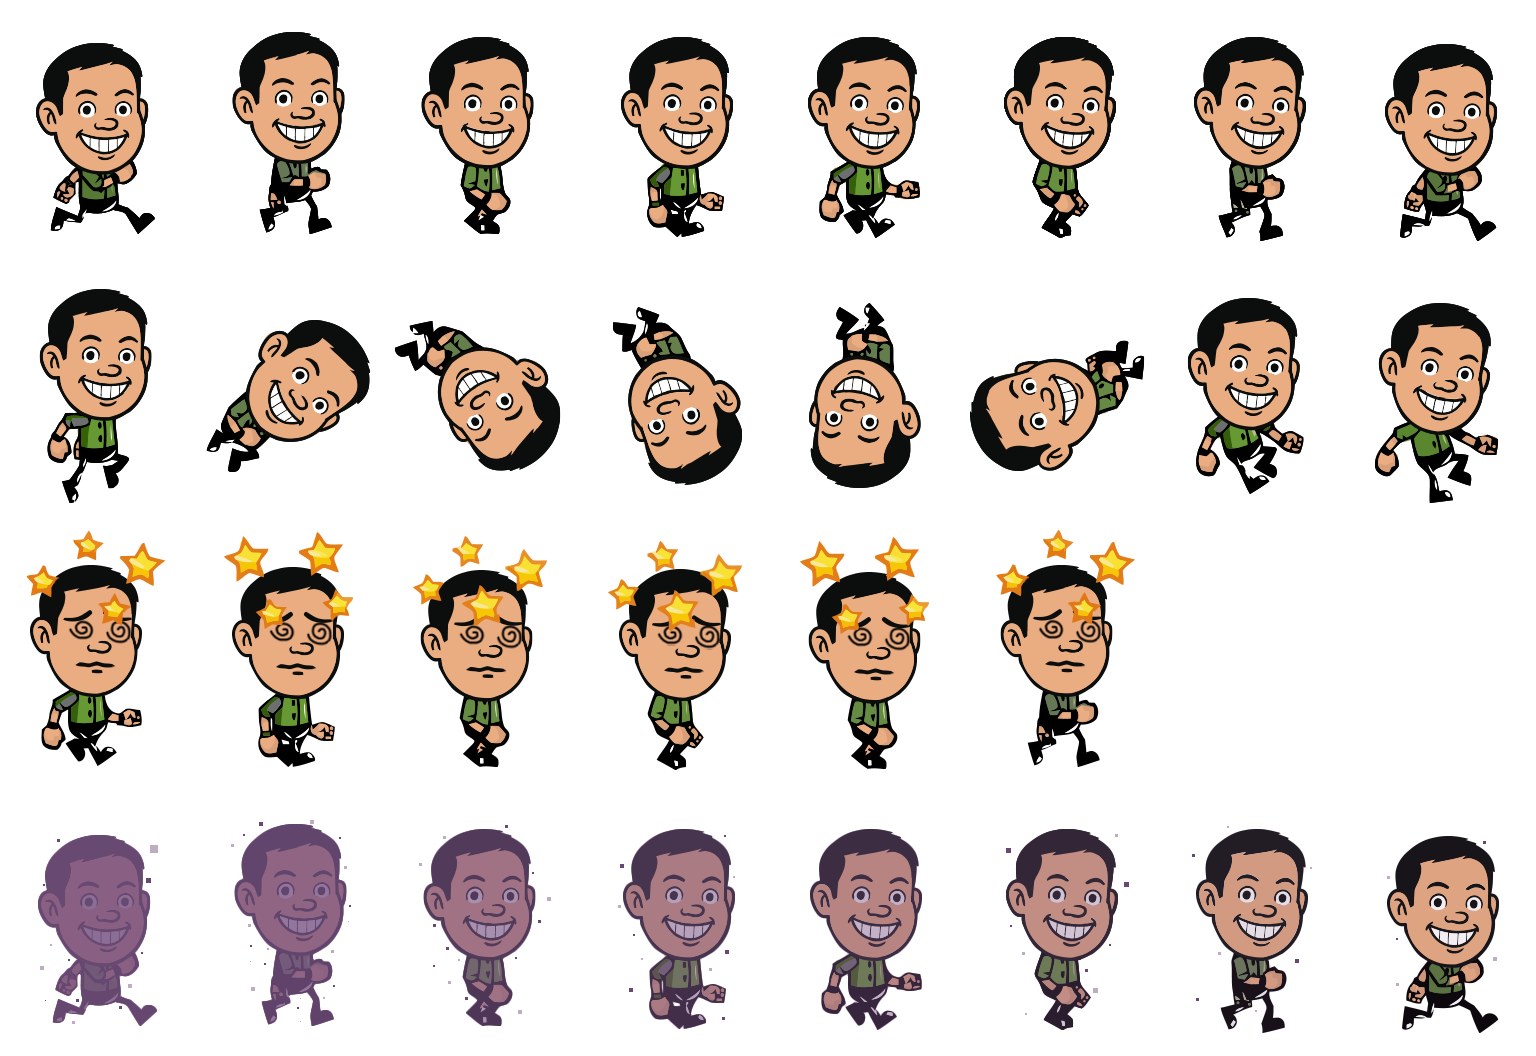
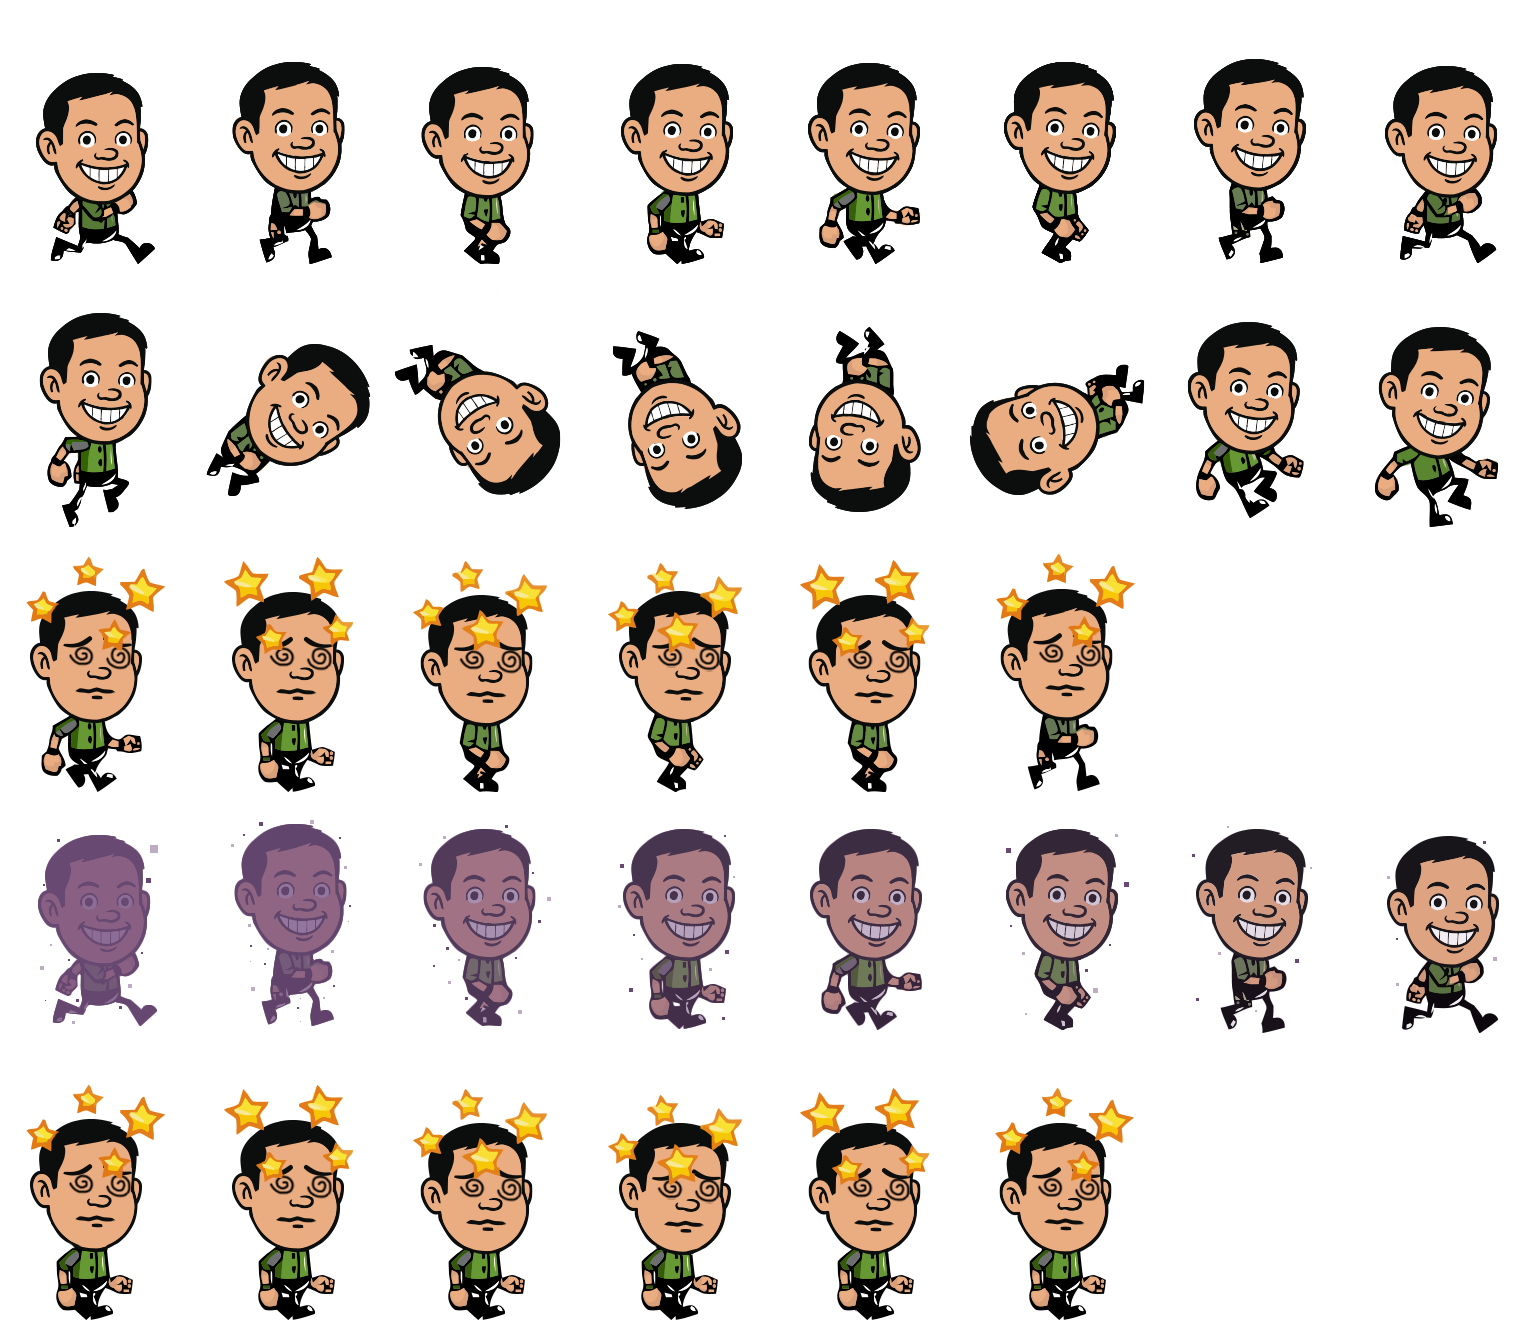
working halt when hitting obstacle

diff --git a/src/scenes/game.js b/src/scenes/game.js
@@ -45,8 +45,8 @@ export default function game() {
 
   // Platforms
   const platforms = [
-    k.add([k.sprite("platforms"), k.pos(0, 450), k.scale(4)]),
-    k.add([k.sprite("platforms"), k.pos(384, 450), k.scale(4)]),
+    k.add([k.sprite("platforms"), k.pos(0, 820), k.scale(3)]),
+    k.add([k.sprite("platforms"), k.pos(380, 820), k.scale(3)]),
   ];
 
   // Player
@@ -59,33 +59,41 @@ export default function game() {
   let healthBar = k.add([
     k.sprite("lives"),
     k.anchor("center"),
-    k.pos(130, 120),
-    k.scale(4)
+    k.pos(200, 60),
+    k.scale(6)
   ]);
 
 
-  // UI
-  const controlsText = k.add([
-    k.text("Press Space/Click/Touch to Jump!", { font: "mania", size: 64 }),
+    let box = k.add([
+    k.sprite("box"),
     k.anchor("center"),
-    k.pos(k.center()),
+    k.pos(1720, 165),
+    k.scale(2.5)
   ]);
+  
 
   const dismissControlsAction = k.onButtonPress("jump", () => {
     gamePaused.set(false);
-    k.destroy(controlsText);
     dismissControlsAction.cancel();
   });
 
+
   const scoreText = k.add([
-    k.text("KM : 0", { font: "mania", size: 72 }),
-    k.pos(20, 20),
+    k.text("00", { font: "mania", size: 90 }),
+    k.pos(1680, 85),
   ]);
 
-  const levelText = k.add([
-    k.text("LEVEL: 1", { font: "mania", size: 72 }),
-    k.pos(1650, 20),
-  ]);
+
+const levelText = k.add([
+  k.text("LEVEL 1", {
+    size: 39,
+    font: "mania", // Custom font
+  }),
+  k.color(k.rgb(139, 171, 191)), // Maroon color for the text
+  k.outline(5, k.rgb(0, 0, 0)), // 4px outline in gold color
+  k.pos(1660, 256),
+]);
+
 
   // Game variables
   let gameSpeed = 500;
@@ -110,14 +118,14 @@ export default function game() {
       score += inc;
     }
     
-    scoreText.text = `KM : ${score}`;
+    scoreText.text = `${score}`;
     sonic.ringCollectUI.text = `+${inc}`;
     k.wait(1, () => (sonic.ringCollectUI.text = ""));
 
     if (checkScore(score, level)) {
       level++;
       showTrafficLight(level);
-      levelText.text = `LEVEL: ${level}`;
+      levelText.text = `LEVEL ${level}`;
       k.wait(2, () => {
         gameSpeed += 500;
         
@@ -129,7 +137,7 @@ export default function game() {
     if (level === 3 && score >= 141) {
       score = 141;
       k.setData("current-score", score);
-      k.go("gameover", citySfx); // move to ending
+      k.go("win", citySfx); // move to ending
     }
   });
 
@@ -137,10 +145,17 @@ export default function game() {
     let inc = 5;
     if (teleporting) return;
 
+
+    enemy.play("crash");
+    k.wait(0.6, () => {
+      if (enemy.exists()) k.destroy(enemy);
+    });
+
+    
     if (!sonic.isGrounded()) {
       k.play("destroy", { volume: 0.5 });
       k.play("hyper-ring", { volume: 0.5 });
-      k.destroy(enemy);
+
       sonic.play("jump");
       sonic.jump();
       if (level == 2) {
@@ -152,7 +167,7 @@ export default function game() {
       } else {
         score += inc;
       }
-      scoreText.text = `KM : ${score}`;
+      scoreText.text = `${score}`;
       sonic.ringCollectUI.text = `+${inc}`;
       k.wait(1, () => (sonic.ringCollectUI.text = ""));
 
@@ -171,7 +186,7 @@ export default function game() {
       if (level === 3 && score >= 141) {
         score = 141;
         k.setData("current-score", score);
-        k.go("gameover", citySfx); // move to ending
+        k.go("win", citySfx); // move to ending
       }
       return;
     }
@@ -188,18 +203,42 @@ export default function game() {
     
     if (frame < 3) frame = (frame + 1) % healthBar.numFrames();
     healthBar.frame = frame;
-    if (lives > 1) {
-      lives--;
-    } else {
-      gameSpeed = 0;
-      k.wait(3, () => {
-        k.setData("current-score", score);
-        k.go("gameover", citySfx);
-      });
-      
-      
-    }
-  });
+
+  // If on ground, pause and wait for input
+  k.play("hurt", { volume: 0.5 });
+  sonic.play("idle");
+
+  if (lives > 1) {
+    lives--;
+    if (frame < 3) frame = (frame + 1) % healthBar.numFrames();
+    healthBar.frame = frame;
+  } else {
+    gameSpeed = 0;
+    k.wait(3, () => {
+      k.setData("current-score", score);
+      k.go("lose", citySfx);
+    });
+    return;
+  }
+
+gamePaused.set(true);
+const message = k.add([
+  k.text("You got hit! Recovering...", {
+    size: 36,
+    font: "mania",
+  }),
+  k.anchor("center"),
+  k.pos(k.center()),
+  "resumePrompt"
+]);
+
+k.wait(1, () => {
+  gamePaused.set(false);
+  sonic.play("run");
+  message.destroy();
+});
+
+});
 
   sonic.onCollide("portal", () => {
     if (gamePaused.get()) return;
@@ -238,8 +277,8 @@ export default function game() {
           k.destroy(spawningPortal);
         })
         teleporting = false;
-        scoreText.text = `KM : ${score}`;
-        levelText.text = `LEVEL: ${level}`;
+        scoreText.text = `${score}`;
+        levelText.text = `LEVEL ${level}`;
       });
 
     });
@@ -251,7 +290,7 @@ export default function game() {
     if (!gamePaused.get()) {
       const motobug = makeMotobug(k.vec2(1950, 773));
       motobug.onUpdate(() => {
-        if (gameSpeed == 0) return;
+        if (gamePaused.get() || gameSpeed === 0) return;
         motobug.move(-(gameSpeed + (gameSpeed < 3000 ? 300 : 0)), 0);
       });
       motobug.onExitScreen(() => motobug.pos.x < 0 && k.destroy(motobug));
@@ -295,7 +334,7 @@ export default function game() {
 
   // Game loop
   k.onUpdate(() => {
-    if (gameSpeed == 0) return;
+  if (gamePaused.get() || gameSpeed === 0) return;
     if (bgPieces[1].pos.x < 0) {
       bgPieces[0].moveTo(bgPieces[1].pos.x + bgPieceWidth * 2, 0);
       bgPieces.push(bgPieces.shift());
@@ -306,13 +345,10 @@ export default function game() {
     bgPieces.forEach(bg => bg.moveTo(bg.pos.x, -sonic.pos.y / 10 - 50));
 
     if (platforms[1].pos.x < 0) {
-      platforms[0].moveTo(platforms[1].pos.x + platforms[1].width * 4, 450);
+      platforms[0].moveTo(platforms[1].pos.x + platforms[1].width * 3, 820);
       platforms.push(platforms.shift());
     }
     platforms[0].move(-gameSpeed, 0);
-    platforms[1].moveTo(platforms[0].pos.x + platforms[1].width * 4, 450);
+    platforms[1].moveTo(platforms[0].pos.x + platforms[1].width * 3, 820);
   });
 }
-
-
-// force to main

diff --git a/src/scenes/lose.js b/src/scenes/lose.js
@@ -1,0 +1,87 @@
+import k from "../kaplayCtx";
+import { makeSonic } from "../entities/sonic";
+
+export default function lose(citySfx) {
+  citySfx?.stop();
+
+  k.setGravity(0);
+  const bg = k.add([
+    k.sprite("up-close"),
+    k.pos(0, 0),
+    k.scale(1),
+    k.opacity(1),
+    k.fixed(),
+  ]);
+
+  const sonic = makeSonic(k.vec2(200, 680));
+  k.camScale(1.5);
+  sonic.play("dizzy");
+
+  k.wait(0, () => {
+    if (sonic.body) sonic.body.useGravity = false;
+  });
+
+  const targetX = k.width() / 2;
+  const walkY = sonic.pos.y;
+
+  let movingOffscreen = false;
+  let fadingOut = false;
+
+  // Black overlay for fading out
+  const fadeOverlay = k.add([
+    k.rect(k.width(), k.height()),
+    k.color(0, 0, 0),
+    k.opacity(0),
+    k.fixed(),
+    "fade",
+  ]);
+
+  function startFadeOut() {
+    if (!fadingOut) {
+      fadingOut = true;
+      k.tween(
+        fadeOverlay.opacity,
+        1,
+        1, // duration of 1 second for fade out
+        (val) => {
+          fadeOverlay.opacity = val;
+        },
+        k.easings.easeInOutQuad
+      ).then(() => {
+        k.go("gameover");
+      });
+    }
+  }
+
+  k.onUpdate(() => {
+    if (!movingOffscreen) {
+      if (sonic.pos.x < targetX) {
+        sonic.move(60, 0);
+      } else {
+        movingOffscreen = true;
+      }
+      sonic.pos.y = walkY;
+    } else {
+      sonic.move(100, 0);
+      sonic.pos.y = walkY;
+
+      const sonicRightEdge = sonic.pos.x + sonic.width / 2;
+      if (sonic.pos.x > k.width() - 10 && !fadingOut) {
+        startFadeOut();
+      }
+    }
+  });
+
+  let canPressSpace = false;
+
+  // Delay before space bar can trigger fade
+  k.wait(1, () => {  // wait 1 second before enabling
+    canPressSpace = true;
+  });
+
+  k.onKeyPress("space", () => {
+    if (canPressSpace) {
+      startFadeOut();
+    }
+  });
+}

diff --git a/src/main.js b/src/main.js
@@ -3,17 +3,21 @@ import disclaimer from "./scenes/disclaimer";
 import game from "./scenes/game";
 import gameover from "./scenes/gameover";
 import mainMenu from "./scenes/mainMenu";
+import lose from "./scenes/lose";
 
 k.loadSprite("chemical-bg", "graphics/chemical-bg.png");
-k.loadSprite("platforms", "graphics/platforms.png");
+k.loadSprite("up-close", "graphics/shaped.png");
+k.loadSprite("platforms", "graphics/illustrator.png");
+k.loadSprite("box", "graphics/box.png");
 k.loadSprite("sonic", "graphics/ryan.png", {
   sliceX: 8,
-  sliceY: 4,
+  sliceY: 5,
   anims: {
     run: { from: 0, to: 7, loop: true, speed: 30 },
     jump: { from: 8, to: 15, loop: false, speed: 10 },
     dizzy: {from: 16, to: 21, loop: true, speed: 10},
-    spawn: {from: 22, to: 29, loop: true, speed: 0.1}
+    spawn: {from: 22, to: 29, loop: true, speed: 0.1},
+    idle: {from: 32, to: 36, loop: true, speed: 10},
   },
 });
 k.loadSprite("ring", "graphics/ring.png", {
@@ -28,6 +32,7 @@ k.loadSprite("motobug", "graphics/motobug.png", {
   sliceY: 2,
   anims: {
     run: { from: 0, to: 7, loop: true, speed: 8 },
+    crash: { from: 8, to: 15, loop: true, speed: 12 },
   },
 });
 k.loadSprite('trafficLight', "graphics/trafficLight.png", {
@@ -60,6 +65,7 @@ k.loadSound("city", "sounds/city.mp3");
 k.scene("disclaimer", disclaimer);
 k.scene("main-menu", mainMenu);
 k.scene("game", game);
+k.scene("lose", lose);
 k.scene("gameover", gameover);
 
 k.go("disclaimer");

diff --git a/src/scenes/gameover.js b/src/scenes/gameover.js
@@ -1,7 +1,7 @@
 import k from "../kaplayCtx";
 
 export default function gameover(citySfx) {
-  citySfx.paused = true;
+if (citySfx) citySfx.paused = true;
   let bestScore = k.getData("best-score");
   const currentScore = k.getData("current-score");
 

diff --git a/src/entities/sonic.js b/src/entities/sonic.js
@@ -3,7 +3,7 @@ import k from "../kaplayCtx";
 export function makeSonic(pos) {
   const sonic = k.add([
     k.sprite("sonic", { anim: "run" }),
-    k.scale(1),
+    k.scale(1.3),
     k.area(),
     k.anchor("center"),
     k.pos(pos),
